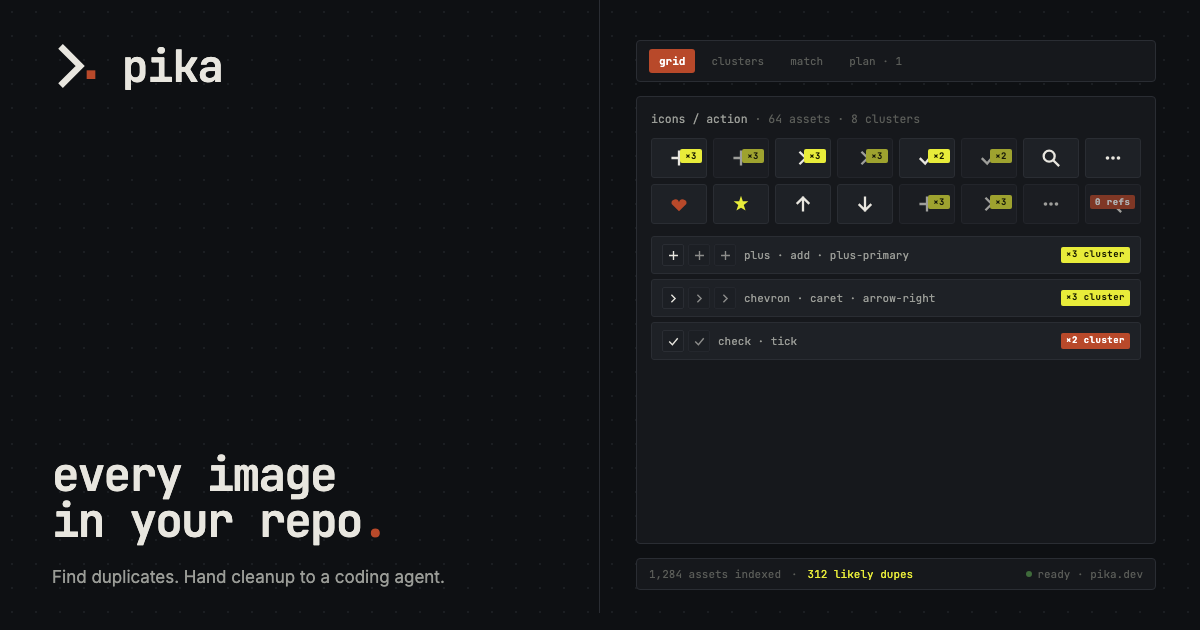
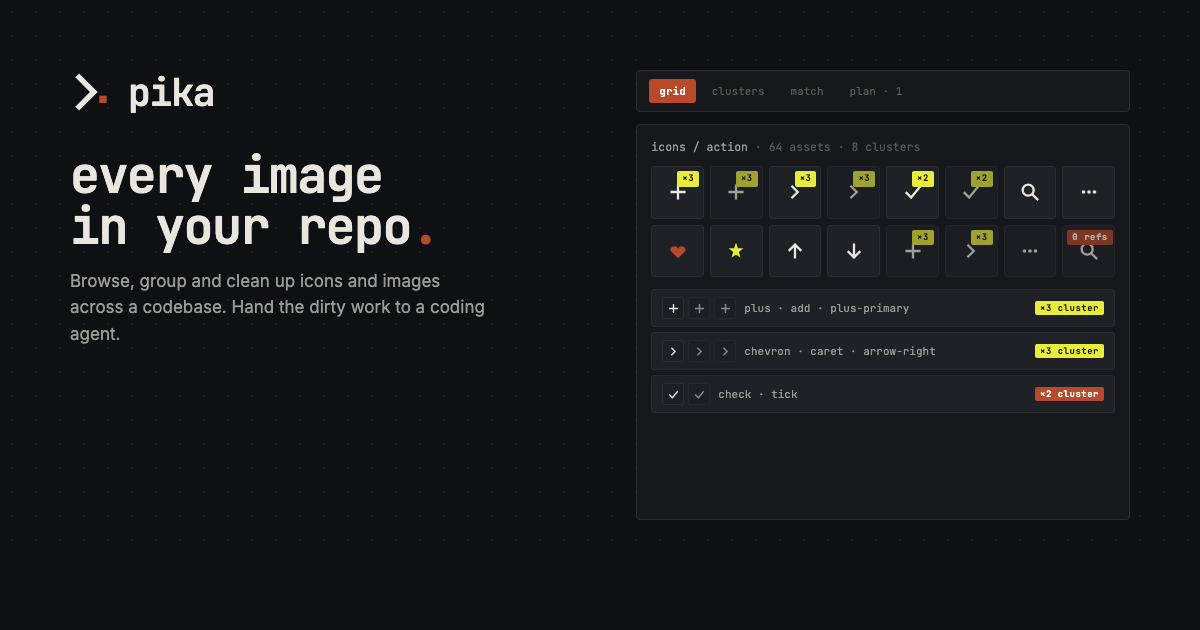
docs(brand): add safe area to social preview for Twitter cards
Twitter's URL caption pill was covering the headline. Reanchored
content to top-left, added 110px bottom safe area, and kept the
right-side app preview clear of the canvas edge. Source HTML
saved alongside the PNG so it's reproducible.

diff --git a/docs/social-preview.html b/docs/social-preview.html
@@ -1,0 +1,295 @@
+<!doctype html>
+<html lang="en">
+<head>
+<meta charset="utf-8" />
+<title>Pika — Social Preview</title>
+<link rel="preconnect" href="https://fonts.googleapis.com">
+<link rel="preconnect" href="https://fonts.gstatic.com" crossorigin>
+<link href="https://fonts.googleapis.com/css2?family=JetBrains+Mono:wght@400;500;600;700&family=Inter:wght@400;450;500&display=swap" rel="stylesheet">
+<style>
+  :root {
+    --pitch:    #0e1013;
+    --pitchMid: #16181c;
+    --pitchHi:  #1e2126;
+    --grid:     #1c1f24;
+    --rule:     #2a2d33;
+    --ink:      #e8e6df;
+    --ink2:     #9a9c97;
+    --ink3:     #5a5c58;
+    --rust:     #b8492a;
+    --citron:   #e8ec3a;
+    --citronInk:#1a1c00;
+    --moss:     #3f6b3b;
+  }
+  * { box-sizing: border-box; margin: 0; padding: 0; }
+  html, body {
+    width: 1200px; height: 630px; overflow: hidden;
+    background: var(--pitch);
+    font-family: "Inter", system-ui, sans-serif;
+    color: var(--ink);
+  }
+  .mono { font-family: "JetBrains Mono", ui-monospace, monospace; }
+
+  .canvas {
+    position: relative; width: 1200px; height: 630px;
+    background: var(--pitch); overflow: hidden;
+  }
+  .dotgrid {
+    position: absolute; inset: 0; pointer-events: none;
+    background-image: radial-gradient(var(--grid) 1px, transparent 1px);
+    background-size: 24px 24px; opacity: 0.9;
+  }
+
+  /* Safe area: 70px top, 70px sides, 110px bottom to clear URL caption pill */
+  .safe {
+    position: absolute;
+    top: 70px; left: 70px; right: 70px; bottom: 110px;
+    display: grid; grid-template-columns: 1.05fr 1fr;
+    gap: 48px; z-index: 1;
+  }
+
+  /* ── Left column ─────────────────────────────────────────────────────── */
+  .left { display: flex; flex-direction: column; gap: 36px; }
+
+  .wordmark { display: flex; align-items: center; gap: 14px; }
+  .wordmark svg { display: block; }
+  .wordmark .name {
+    font-family: "JetBrains Mono", ui-monospace, monospace;
+    font-size: 38px; font-weight: 600;
+    letter-spacing: -1.2px; color: var(--ink); line-height: 1;
+  }
+
+  .headline {
+    font-family: "JetBrains Mono", ui-monospace, monospace;
+    font-size: 50px; font-weight: 600;
+    letter-spacing: -1.6px; line-height: 1.02; color: var(--ink);
+  }
+  .headline .dot { color: var(--rust); }
+
+  .subhead {
+    font-size: 17px; color: var(--ink2); line-height: 1.55; max-width: 420px;
+    margin-top: 16px;
+  }
+
+  /* ── Right column ────────────────────────────────────────────────────── */
+  .right { display: flex; flex-direction: column; gap: 12px; min-width: 0; }
+
+  .toolbar {
+    display: flex; gap: 6px; padding: 8px 12px;
+    background: var(--pitchMid); border: 1px solid var(--rule); border-radius: 4px;
+    font-family: "JetBrains Mono", ui-monospace, monospace;
+    font-size: 11px; color: var(--ink2);
+  }
+  .toolbar span {
+    padding: 5px 10px; border-radius: 3px; color: var(--ink3);
+  }
+  .toolbar .active { background: var(--rust); color: #fff; font-weight: 600; }
+
+  .grid-card {
+    background: var(--pitchMid); border: 1px solid var(--rule); border-radius: 4px;
+    padding: 14px; flex: 1; display: flex; flex-direction: column; gap: 12px;
+    min-height: 0;
+  }
+  .grid-header {
+    font-family: "JetBrains Mono", ui-monospace, monospace;
+    font-size: 11.5px; color: var(--ink2);
+  }
+  .grid-header .muted { color: var(--ink3); }
+
+  .tiles {
+    display: grid; grid-template-columns: repeat(8, 1fr); gap: 6px;
+  }
+  .tile {
+    background: var(--pitchHi); border: 1px solid var(--rule);
+    border-radius: 3px; padding: 8px; position: relative;
+    display: flex; flex-direction: column; gap: 5px;
+    aspect-ratio: 1;
+  }
+  .tile.dim { opacity: 0.65; }
+  .tile .glyph {
+    flex: 1; display: flex; align-items: center; justify-content: center;
+  }
+  .tile .tag {
+    position: absolute; top: 4px; right: 4px;
+    font-family: "JetBrains Mono", ui-monospace, monospace;
+    font-size: 9px; font-weight: 700; letter-spacing: 0.5px;
+    padding: 1px 5px; border-radius: 2px; line-height: 1.5;
+    background: var(--citron); color: var(--citronInk);
+  }
+  .tile .tag.unused {
+    left: 4px; right: auto; background: var(--rust); color: #fff;
+  }
+
+  .clusters { display: flex; flex-direction: column; gap: 5px; }
+  .cluster {
+    display: flex; align-items: center; gap: 8px;
+    background: var(--pitchHi); border: 1px solid var(--rule);
+    border-radius: 3px; padding: 7px 10px;
+  }
+  .cluster .glyphs { display: flex; gap: 4px; }
+  .cluster .glyphs .g {
+    width: 22px; height: 22px; background: var(--grid);
+    border-radius: 2px; border: 1px solid var(--rule);
+    display: flex; align-items: center; justify-content: center;
+  }
+  .cluster .glyphs .g:nth-child(2) { opacity: 0.55; }
+  .cluster .glyphs .g:nth-child(3) { opacity: 0.55; }
+  .cluster .label {
+    font-family: "JetBrains Mono", ui-monospace, monospace;
+    font-size: 11px; color: var(--ink2); flex: 1;
+  }
+  .cluster .ctag {
+    font-family: "JetBrains Mono", ui-monospace, monospace;
+    font-size: 9px; font-weight: 700; letter-spacing: 0.5px;
+    padding: 1px 5px; border-radius: 2px;
+    background: var(--citron); color: var(--citronInk);
+  }
+  .cluster .ctag.rust { background: var(--rust); color: #fff; }
+
+  .status {
+    display: flex; align-items: center; gap: 10px;
+    font-family: "JetBrains Mono", ui-monospace, monospace;
+    font-size: 11px; color: var(--ink3);
+    padding: 8px 12px; background: var(--pitchMid);
+    border: 1px solid var(--rule); border-radius: 4px;
+  }
+  .status .citron { color: var(--citron); }
+  .status .right-side { margin-left: auto; display: flex; align-items: center; gap: 5px; }
+  .status .dot {
+    width: 6px; height: 6px; border-radius: 99px; background: var(--moss);
+    display: inline-block;
+  }
+</style>
+</head>
+<body>
+
+<div class="canvas">
+  <div class="dotgrid"></div>
+
+  <div class="safe">
+    <!-- LEFT -->
+    <div class="left">
+      <div class="wordmark">
+        <svg width="44" height="44" viewBox="0 0 24 24" fill="none">
+          <path d="M5 4 L13 12 L5 20" stroke="#e8e6df" stroke-width="3" stroke-linecap="square" stroke-linejoin="miter" fill="none"/>
+          <rect x="16" y="14" width="4" height="4" fill="#b8492a"/>
+        </svg>
+        <span class="name">pika</span>
+      </div>
+
+      <div>
+        <div class="headline">every image<br/>in your repo<span class="dot">.</span></div>
+        <div class="subhead">Browse, group and clean up icons and images across a codebase. Hand the dirty work to a coding agent.</div>
+      </div>
+    </div>
+
+    <!-- RIGHT -->
+    <div class="right">
+      <div class="toolbar mono">
+        <span class="active">grid</span>
+        <span>clusters</span>
+        <span>match</span>
+        <span>plan · 1</span>
+      </div>
+
+      <div class="grid-card">
+        <div class="grid-header">icons / action <span class="muted">· 64 assets · 8 clusters</span></div>
+
+        <div class="tiles">
+          <!-- row 1 -->
+          <div class="tile">
+            <div class="glyph"><svg width="22" height="22" viewBox="0 0 24 24"><path d="M12 5V19M5 12H19" stroke="#e8e6df" stroke-width="2.5" stroke-linecap="square"/></svg></div>
+            <div class="tag">×3</div>
+          </div>
+          <div class="tile dim">
+            <div class="glyph"><svg width="22" height="22" viewBox="0 0 24 24"><path d="M12 5V19M5 12H19" stroke="#e8e6df" stroke-width="2.5" stroke-linecap="square"/></svg></div>
+            <div class="tag">×3</div>
+          </div>
+          <div class="tile">
+            <div class="glyph"><svg width="22" height="22" viewBox="0 0 24 24" fill="none"><path d="M9 6L15 12L9 18" stroke="#e8e6df" stroke-width="2.5" stroke-linecap="square" stroke-linejoin="miter"/></svg></div>
+            <div class="tag">×3</div>
+          </div>
+          <div class="tile dim">
+            <div class="glyph"><svg width="22" height="22" viewBox="0 0 24 24" fill="none"><path d="M9 6L15 12L9 18" stroke="#e8e6df" stroke-width="2.5" stroke-linecap="square" stroke-linejoin="miter"/></svg></div>
+            <div class="tag">×3</div>
+          </div>
+          <div class="tile">
+            <div class="glyph"><svg width="22" height="22" viewBox="0 0 24 24" fill="none"><path d="M5 13L10 18L19 7" stroke="#e8e6df" stroke-width="2.5" stroke-linecap="square"/></svg></div>
+            <div class="tag">×2</div>
+          </div>
+          <div class="tile dim">
+            <div class="glyph"><svg width="22" height="22" viewBox="0 0 24 24" fill="none"><path d="M5 13L10 18L19 7" stroke="#e8e6df" stroke-width="2.5" stroke-linecap="square"/></svg></div>
+            <div class="tag">×2</div>
+          </div>
+          <div class="tile">
+            <div class="glyph"><svg width="22" height="22" viewBox="0 0 24 24" fill="none"><circle cx="10" cy="10" r="6" stroke="#e8e6df" stroke-width="2.5"/><path d="M15 15L20 20" stroke="#e8e6df" stroke-width="2.5" stroke-linecap="square"/></svg></div>
+          </div>
+          <div class="tile">
+            <div class="glyph"><svg width="22" height="22" viewBox="0 0 24 24"><g fill="#e8e6df"><circle cx="6" cy="12" r="2"/><circle cx="12" cy="12" r="2"/><circle cx="18" cy="12" r="2"/></g></svg></div>
+          </div>
+
+          <!-- row 2 -->
+          <div class="tile">
+            <div class="glyph"><svg width="22" height="22" viewBox="0 0 24 24" fill="#b8492a"><path d="M12 20L4 12a4 4 0 0 1 8-2 4 4 0 0 1 8 2z"/></svg></div>
+          </div>
+          <div class="tile">
+            <div class="glyph"><svg width="22" height="22" viewBox="0 0 24 24" fill="#e8ec3a"><path d="M12 3L14 9L20 9L15 13L17 19L12 16L7 19L9 13L4 9L10 9Z"/></svg></div>
+          </div>
+          <div class="tile">
+            <div class="glyph"><svg width="22" height="22" viewBox="0 0 24 24" fill="none" style="transform: rotate(-90deg)"><path d="M5 12H19M13 6L19 12L13 18" stroke="#e8e6df" stroke-width="2.5" stroke-linecap="square" stroke-linejoin="miter"/></svg></div>
+          </div>
+          <div class="tile">
+            <div class="glyph"><svg width="22" height="22" viewBox="0 0 24 24" fill="none" style="transform: rotate(90deg)"><path d="M5 12H19M13 6L19 12L13 18" stroke="#e8e6df" stroke-width="2.5" stroke-linecap="square" stroke-linejoin="miter"/></svg></div>
+          </div>
+          <div class="tile dim">
+            <div class="glyph"><svg width="22" height="22" viewBox="0 0 24 24"><path d="M12 5V19M5 12H19" stroke="#e8e6df" stroke-width="2.5" stroke-linecap="square"/></svg></div>
+            <div class="tag">×3</div>
+          </div>
+          <div class="tile dim">
+            <div class="glyph"><svg width="22" height="22" viewBox="0 0 24 24" fill="none"><path d="M9 6L15 12L9 18" stroke="#e8e6df" stroke-width="2.5" stroke-linecap="square" stroke-linejoin="miter"/></svg></div>
+            <div class="tag">×3</div>
+          </div>
+          <div class="tile dim">
+            <div class="glyph"><svg width="22" height="22" viewBox="0 0 24 24"><g fill="#e8e6df"><circle cx="6" cy="12" r="2"/><circle cx="12" cy="12" r="2"/><circle cx="18" cy="12" r="2"/></g></svg></div>
+          </div>
+          <div class="tile dim">
+            <div class="glyph"><svg width="22" height="22" viewBox="0 0 24 24" fill="none"><circle cx="10" cy="10" r="6" stroke="#e8e6df" stroke-width="2.5"/><path d="M15 15L20 20" stroke="#e8e6df" stroke-width="2.5" stroke-linecap="square"/></svg></div>
+            <div class="tag unused">0 refs</div>
+          </div>
+        </div>
+
+        <div class="clusters">
+          <div class="cluster">
+            <div class="glyphs">
+              <div class="g"><svg width="13" height="13" viewBox="0 0 24 24"><path d="M12 5V19M5 12H19" stroke="#e8e6df" stroke-width="2.5" stroke-linecap="square"/></svg></div>
+              <div class="g"><svg width="13" height="13" viewBox="0 0 24 24"><path d="M12 5V19M5 12H19" stroke="#e8e6df" stroke-width="2.5" stroke-linecap="square"/></svg></div>
+              <div class="g"><svg width="13" height="13" viewBox="0 0 24 24"><path d="M12 5V19M5 12H19" stroke="#e8e6df" stroke-width="2.5" stroke-linecap="square"/></svg></div>
+            </div>
+            <div class="label">plus · add · plus-primary</div>
+            <div class="ctag">×3 cluster</div>
+          </div>
+          <div class="cluster">
+            <div class="glyphs">
+              <div class="g"><svg width="13" height="13" viewBox="0 0 24 24" fill="none"><path d="M9 6L15 12L9 18" stroke="#e8e6df" stroke-width="2.5" stroke-linecap="square" stroke-linejoin="miter"/></svg></div>
+              <div class="g"><svg width="13" height="13" viewBox="0 0 24 24" fill="none"><path d="M9 6L15 12L9 18" stroke="#e8e6df" stroke-width="2.5" stroke-linecap="square" stroke-linejoin="miter"/></svg></div>
+              <div class="g"><svg width="13" height="13" viewBox="0 0 24 24" fill="none"><path d="M9 6L15 12L9 18" stroke="#e8e6df" stroke-width="2.5" stroke-linecap="square" stroke-linejoin="miter"/></svg></div>
+            </div>
+            <div class="label">chevron · caret · arrow-right</div>
+            <div class="ctag">×3 cluster</div>
+          </div>
+          <div class="cluster">
+            <div class="glyphs">
+              <div class="g"><svg width="13" height="13" viewBox="0 0 24 24" fill="none"><path d="M5 13L10 18L19 7" stroke="#e8e6df" stroke-width="2.5" stroke-linecap="square"/></svg></div>
+              <div class="g"><svg width="13" height="13" viewBox="0 0 24 24" fill="none"><path d="M5 13L10 18L19 7" stroke="#e8e6df" stroke-width="2.5" stroke-linecap="square"/></svg></div>
+            </div>
+            <div class="label">check · tick</div>
+            <div class="ctag rust">×2 cluster</div>
+          </div>
+        </div>
+      </div>
+    </div>
+  </div>
+</div>
+
+</body>
+</html>